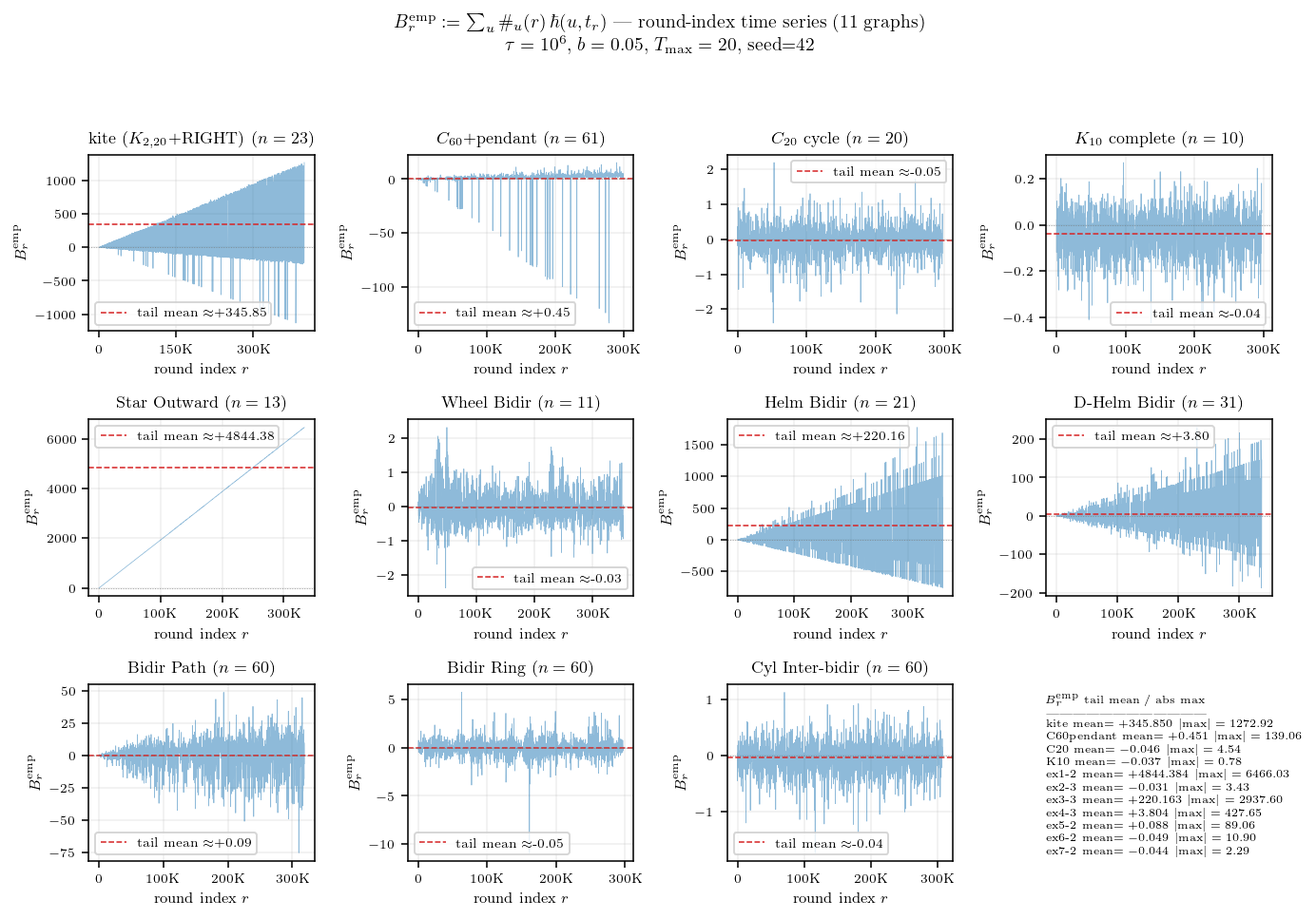
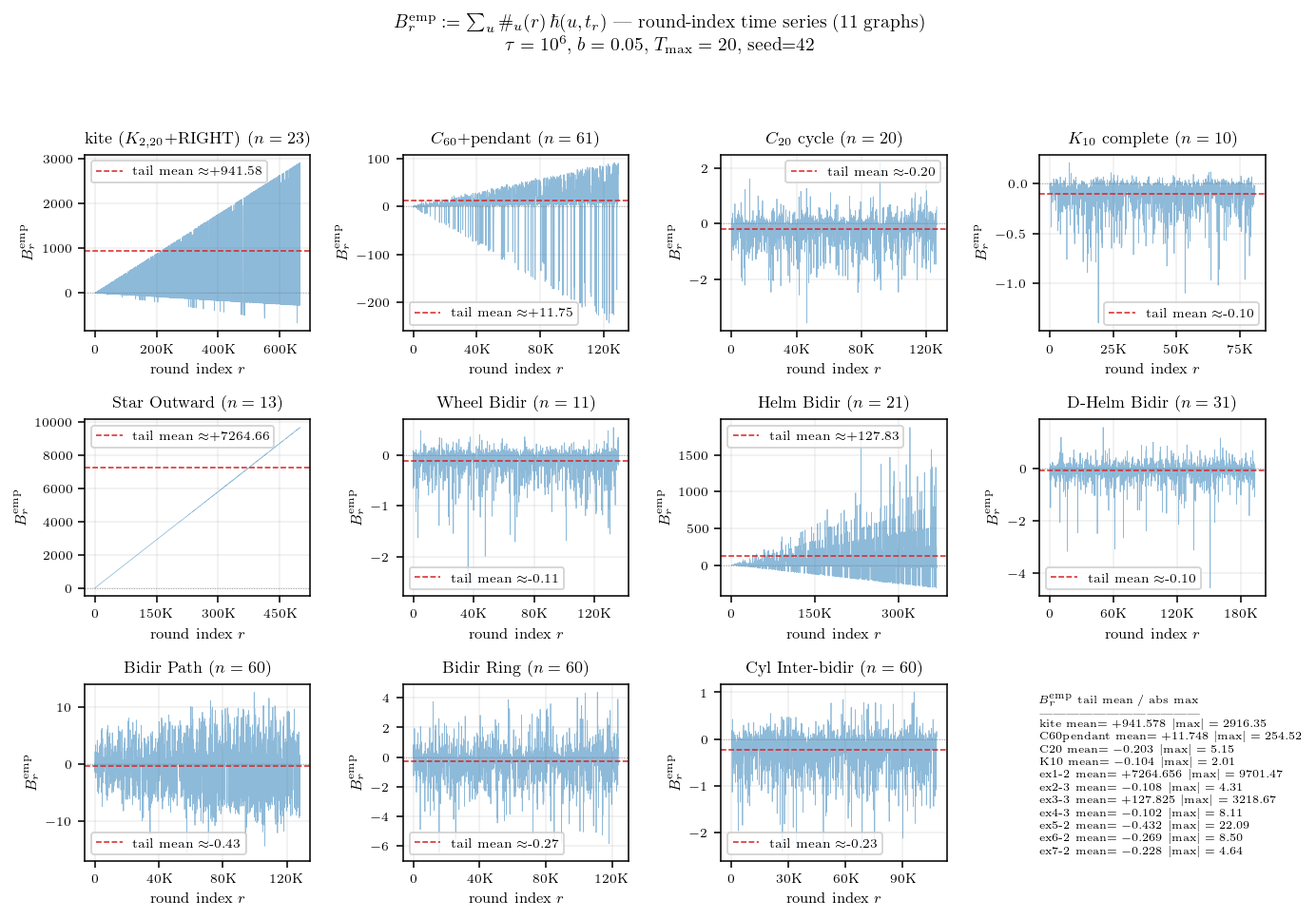
fix: Foster — 정본 algorithm(downstream-filter) + model B 재시뮬, figure 7개·표·결론 일괄 update (strict hold 4 / violate 4 / border 3)

diff --git a/docs/Posts/260522_2f5c08.html b/docs/Posts/260522_2f5c08.html
@@ -2,7 +2,7 @@
 <html xmlns="http://www.w3.org/1999/xhtml" lang="en" xml:lang="en"><head>
 
 <meta charset="utf-8">
-<meta name="generator" content="quarto-1.8.27">
+<meta name="generator" content="quarto-1.9.37">
 
 <meta name="viewport" content="width=device-width, initial-scale=1.0, user-scalable=yes">
 
@@ -11,6 +11,9 @@
 
 <title>연구 ▷ HST ▷ Foster’s drift criterion 일반 성립 여부 검증 — 11개 그래프 – 신록예찬's Blog</title>
 <style>
+/* Default styles provided by pandoc.
+** See https://pandoc.org/MANUAL.html#variables-for-html for config info.
+*/
 code{white-space: pre-wrap;}
 span.smallcaps{font-variant: small-caps;}
 div.columns{display: flex; gap: min(4vw, 1.5em);}
@@ -34,15 +37,14 @@ ul.task-list li input[type="checkbox"] {
 <meta name="quarto:offset" content="../">
 <script src="../site_libs/quarto-html/quarto.js" type="module"></script>
 <script src="../site_libs/quarto-html/tabsets/tabsets.js" type="module"></script>
-<script src="../site_libs/quarto-html/axe/axe-check.js" type="module"></script>
 <script src="../site_libs/quarto-html/popper.min.js"></script>
 <script src="../site_libs/quarto-html/tippy.umd.min.js"></script>
 <script src="../site_libs/quarto-html/anchor.min.js"></script>
 <link href="../site_libs/quarto-html/tippy.css" rel="stylesheet">
-<link href="../site_libs/quarto-html/quarto-syntax-highlighting-8b4baf804e461d9b72633f0de59a0cac.css" rel="stylesheet" id="quarto-text-highlighting-styles">
+<link href="../site_libs/quarto-html/quarto-syntax-highlighting-acf12a64177840b8d86f2d4f01b2e9fb.css" rel="stylesheet" id="quarto-text-highlighting-styles">
 <script src="../site_libs/bootstrap/bootstrap.min.js"></script>
 <link href="../site_libs/bootstrap/bootstrap-icons.css" rel="stylesheet">
-<link href="../site_libs/bootstrap/bootstrap-165db4a5700707ee9723b4db2002e5ec.min.css" rel="stylesheet" append-hash="true" id="quarto-bootstrap" data-mode="light">
+<link href="../site_libs/bootstrap/bootstrap-42eb1ed98d6b40681f6bda2512c0def3.min.css" rel="stylesheet" append-hash="true" id="quarto-bootstrap" data-mode="light">
 <script id="quarto-search-options" type="application/json">{
   "location": "navbar",
   "copy-button": false,
@@ -72,7 +74,7 @@ ul.task-list li input[type="checkbox"] {
 }</script>
 
   <script src="https://cdnjs.cloudflare.com/polyfill/v3/polyfill.min.js?features=es6"></script>
-  <script src="https://cdn.jsdelivr.net/npm/mathjax@3/es5/tex-chtml-full.js" type="text/javascript"></script>
+  <script defer="" src="https://cdn.jsdelivr.net/npm/mathjax@3/es5/tex-chtml-full.js" type="text/javascript"></script>
 
 <script type="text/javascript">
 const typesetMath = (el) => {
@@ -221,76 +223,82 @@ window.Quarto = {
 
 <!-- 소유권자: 소미 | 사용자: 소미 -->
 <!-- Modified: 2026-05-22 by 소미 -->
-<p>에이의 ABC 통합증명 PDF §3.4 의 Foster’s drift criterion (Assumption 1) 이 그래프와 파라미터에 따라 실제로 잘 성립하는지 실험으로 본다. 검증 대상은 다음 11 그래프 — 4 base (<span class="math inline">\(K_{10}\)</span> complete, <span class="math inline">\(C_{20}\)</span> cycle, kite, <span class="math inline">\(C_{60}\)</span>+pendant) + <code>examples_24</code> 예제 7개 (Star Outward, Wheel/Helm/D-Helm Bidir, Bidir Path/Ring, Cyl Inter-bidir). degree heterogeneity 와 graph symmetry 가 다양하게 분포하도록 골랐다. 각 그래프마다 full HST 시뮬을 <span class="math inline">\(T_{\rm VAL}=10^6\)</span> step, <span class="math inline">\(T_{\max}=20\)</span>, <span class="math inline">\(b=0.05\)</span>, seed=42 로 1회 돌려 round 별 <span class="math inline">\((M_r, B^{\rm emp}_r)\)</span> sample 약 30만 round 씩 수집 (평균 round 길이 <span class="math inline">\(\approx 3.3\)</span> step).</p>
+<p>에이의 ABC 통합증명 PDF §3.4 의 Foster’s drift criterion (Assumption 1) 이 그래프와 파라미터에 따라 실제로 잘 성립하는지 실험으로 본다. 검증 대상은 다음 11 그래프 — 4 base (<span class="math inline">\(K_{10}\)</span> complete, <span class="math inline">\(C_{20}\)</span> cycle, kite, <span class="math inline">\(C_{60}\)</span>+pendant) + <code>examples_24</code> 예제 7개 (Star Outward, Wheel/Helm/D-Helm Bidir, Bidir Path/Ring, Cyl Inter-bidir). degree heterogeneity 와 graph symmetry 가 다양하게 분포하도록 골랐다. 각 그래프마다 full HST 시뮬 (정본 algorithm: downstream-filter, model B: round 별 <span class="math inline">\(b' \sim {\rm Unif}(0,b)\)</span> 1회 draw) 을 <span class="math inline">\(T_{\rm VAL}=10^6\)</span> step, <span class="math inline">\(T_{\max}=20\)</span> (maxflow), <span class="math inline">\(b=0.05\)</span>, seed=42 로 1회 돌려 round 별 <span class="math inline">\((M_r, B^{\rm emp}_r)\)</span> sample 을 수집.</p>
 <p><img src="attachments/260522_2f5c08_01.png" class="img-fluid"></p>
 <p>11 그래프 각각의 (그래프 layout / <span class="math inline">\(M(S_{t_r})\)</span> 시계열 / <span class="math inline">\(B^{\rm emp}_r\)</span> 시계열 / <span class="math inline">\((M_r, B^{\rm emp}_r)\)</span> 산점도) 4-view. 그룹 패턴이 한눈에 갈린다 — graph 가 fully symmetric 이면 <span class="math inline">\(M, B\)</span> 모두 0 부근 bounded + 산점도 작은 cloud, graph 가 비대칭이면 <span class="math inline">\(M, B\)</span> 모두 round 따라 거의 선형으로 발산 + 산점도가 우상향 cloud.</p>
 <p><img src="attachments/260522_2f5c08_02.png" class="img-fluid"></p>
 <p>그래프 클래스에 따라 <span class="math inline">\(M(S_{t_r})\)</span> 시계열이 두 종류로 명확히 나뉜다.</p>
 <ul>
-<li>그룹A: fully symmetric (Cycle, Complete, Ring, Cylinder bidir) 은 시계열이 작은 상수 (∼ 1) 부근에서 흔들리는 bounded process. 이런것들은 height range 가 시간이 흘러도 일정 scale 위로 안 커진다.</li>
-<li>그룹C: 비대칭 그래프 (kite, Helm Bidir, Star Outward, <span class="math inline">\(C_{60}\)</span>+pendant 등) 는 시계열이 round 가 진행할수록 거의 선형으로 발산. 이런것들은 height range 가 무한히 커진다.</li>
+<li>그룹A: fully symmetric (Cycle, Complete, Ring, Cylinder bidir, D-Helm) 은 시계열이 작은 상수 (∼ 1) 부근에서 흔들리는 bounded process. 이런것들은 height range 가 시간이 흘러도 일정 scale 위로 안 커진다.</li>
+<li>그룹C: 비대칭 그래프 (kite, Helm Bidir, Star Outward, <span class="math inline">\(C_{60}\)</span>+pendant, Bidir Path) 는 시계열이 round 가 진행할수록 거의 선형으로 발산. 이런것들은 height range 가 무한히 커진다.</li>
 </ul>
 <p>같은 round 별로 paired 양 <span class="math inline">\(B^{\rm emp}_r := \sum_u \#_u(r)\, \hbar(u, t_r)\)</span> 의 시계열을 같이 보면, <span class="math inline">\(M\)</span> 시계열과 정확히 같은 정성 분류가 나온다.</p>
 <p><img src="attachments/260522_2f5c08_03.png" class="img-fluid"></p>
-<p>그룹 A 5 그래프 (<span class="math inline">\(K_{10}, C_{20}\)</span>, Cyl Inter-bidir, Wheel Bidir, Bidir Ring) 모두 <span class="math inline">\(B^{\rm emp}\)</span> tail mean 이 0 부근 작은 음수 (<span class="math inline">\(-0.03 \sim -0.05\)</span>) — round 가 진행될수록 <span class="math inline">\(B\)</span> 가 음수로 깔린다. 이는 Foster’s drift criterion 의 “복원력” 의 약한 (평균 sense) 증거. 그룹 C 6 그래프는 모두 <span class="math inline">\(B\)</span> tail mean 이 양수 — 강 violate (kite <span class="math inline">\(+346\)</span>, Star Outward <span class="math inline">\(+4844\)</span>, Helm Bidir <span class="math inline">\(+220\)</span>, D-Helm <span class="math inline">\(+3.8\)</span>) 는 큰 양수로 발산, 약 violate (<span class="math inline">\(C_{60}\)</span>+pendant <span class="math inline">\(+0.45\)</span>, Bidir Path <span class="math inline">\(+0.09\)</span>) 는 평균은 작지만 <span class="math inline">\(|B|\)</span> outlier 가 큼. <span class="math inline">\(B\)</span> 시계열의 부호 패턴 자체가 Foster L1 의 graph-별 정성 판정.</p>
+<p>그룹 A 6 그래프 (<span class="math inline">\(K_{10}, C_{20}\)</span>, Cyl Inter-bidir, Wheel Bidir, Bidir Ring, D-Helm Bidir) 모두 <span class="math inline">\(B^{\rm emp}\)</span> tail mean 이 0 부근 음수 (<span class="math inline">\(-0.10 \sim -0.27\)</span>) — round 가 진행될수록 <span class="math inline">\(B\)</span> 가 음수로 깔린다. 이는 Foster’s drift criterion 의 “복원력” 의 약한 (평균 sense) 증거. 그룹 C 5 그래프 중 강 violate (Star Outward <span class="math inline">\(+7265\)</span>, kite <span class="math inline">\(+942\)</span>, Helm Bidir <span class="math inline">\(+128\)</span>, <span class="math inline">\(C_{60}\)</span>+pendant <span class="math inline">\(+11.7\)</span>) 는 큰 양수로 발산. Bidir Path 는 예외 — <span class="math inline">\(M\)</span> 자체는 작은 발산 (tail <span class="math inline">\(\approx 6.8\)</span>) 인데 <span class="math inline">\(B^{\rm emp}\)</span> tail mean <span class="math inline">\(-0.43\)</span> 으로 음수 (large-<span class="math inline">\(M\)</span> 영역의 slope 도 strict hold, 아래 참조). <span class="math inline">\(B\)</span> 시계열의 부호 패턴 자체가 Foster L1 의 graph-별 정성 판정.</p>
 <hr>
-<p>수열 <span class="math inline">\(\{M(S_{t_r})\}_r\)</span> 자체의 성질이 궁금하다. 독립인가, correlated 인가, mixing 인가, 확률적 유계 (<span class="math inline">\(O_p(1)\)</span>) 인가? 그룹 C 는 <span class="math inline">\(M_r\)</span> 자체가 round 따라 발산이라 진단의 답이 자명 (mixing X, tight X, <span class="math inline">\(M_r = \Theta_p(r)\)</span>) 하므로, 흥미는 그룹 A 안에서 어떻게 갈리는지에 있다. 그룹 A 5 그래프 (<span class="math inline">\(K_{10}\)</span>, <span class="math inline">\(C_{20}\)</span>, Cyl Inter-bidir, Wheel Bidir, Bidir Ring) 에 진단을 적용한다.</p>
+<p>수열 <span class="math inline">\(\{M(S_{t_r})\}_r\)</span> 자체의 성질이 궁금하다. 독립인가, correlated 인가, mixing 인가, 확률적 유계 (<span class="math inline">\(O_p(1)\)</span>) 인가? 그룹 C 는 <span class="math inline">\(M_r\)</span> 자체가 round 따라 발산이라 진단의 답이 자명 (mixing X, tight X, <span class="math inline">\(M_r = \Theta_p(r)\)</span>) 하므로, 흥미는 그룹 A 안에서 어떻게 갈리는지에 있다. 그룹 A 6 그래프 (<span class="math inline">\(K_{10}\)</span>, <span class="math inline">\(C_{20}\)</span>, Cyl Inter-bidir, Wheel Bidir, Bidir Ring, D-Helm Bidir) 에 진단을 적용한다.</p>
 <p><img src="attachments/260522_2f5c08_04.png" class="img-fluid"></p>
-<p>sample autocorrelation <span class="math inline">\(\rho(k) := \mathrm{Corr}(M_r, M_{r+k})\)</span> — i.i.d. 이면 lag 1 부터 <span class="math inline">\(\pm 1.96/\sqrt{n}\)</span> 신뢰구간 안. 그룹 A 5 그래프 모두 lag-1 ACF <span class="math inline">\(\rho(1) \in [0.90, 0.9996]\)</span> — 강 양상관, 명백히 독립이 아니다. mixing 속도는 그래프마다 차이가 크다. <span class="math inline">\(K_{10}\)</span> 은 lag 100 부근에서 <span class="math inline">\(\rho \approx 0\)</span> 으로 수렴 — 짧은 lag 안에 mixing. <span class="math inline">\(C_{20}\)</span> 은 lag 100 에서도 <span class="math inline">\(\rho \approx 0.53\)</span>, Cyl Inter-bidir 는 <span class="math inline">\(\rho \approx 0.71\)</span>, Bidir Ring 은 <span class="math inline">\(\rho \approx 0.90\)</span>, Wheel Bidir 는 <span class="math inline">\(\rho \approx 0.97\)</span> 로 mixing 이 매우 느리다 — 같은 그룹 A 안에서도 mixing speed 는 <span class="math inline">\(K_{10}\)</span> 만 빠르고 나머지는 long-range correlated.</p>
+<p>sample autocorrelation <span class="math inline">\(\rho(k) := \mathrm{Corr}(M_r, M_{r+k})\)</span> — i.i.d. 이면 lag 1 부터 <span class="math inline">\(\pm 1.96/\sqrt{n}\)</span> 신뢰구간 안. 그룹 A 6 그래프 모두 lag-1 ACF <span class="math inline">\(\rho(1) \in [0.63, 0.98]\)</span> — 강 양상관, 명백히 독립이 아니다. mixing 속도는 그래프마다 차이가 크다. <span class="math inline">\(K_{10}\)</span>, <span class="math inline">\(C_{20}\)</span>, Cyl Inter-bidir, Wheel Bidir 는 lag 100 부근에서 <span class="math inline">\(\rho \approx 0\)</span> 으로 수렴 — 짧은 lag 안에 mixing (정본 algorithm 에서 modelB raw 의 mixing speed 가 빠름). Bidir Ring 과 D-Helm Bidir 는 lag 100 에서도 각각 <span class="math inline">\(\rho \approx 0.25\)</span>, <span class="math inline">\(\rho \approx 0.30\)</span> 로 long-range correlated.</p>
 <p><img src="attachments/260522_2f5c08_05.png" class="img-fluid"></p>
-<p>각 그래프의 round 구간 100 bin 으로 나눠 bin 별 5/50/95 quantile band + running max. 그룹 A 5 그래프 모두 quantile band 가 후미에서 일정 range 안에서 흔들리고, running max 도 작은 절대값 (≤ 3.1) 안에서 잡혀 있다. marginal 분포가 round 따라 right-shift 하지 않으니 <span class="math inline">\(\sup_r \mathbb{P}(M_r &gt; K) \to 0\)</span> as <span class="math inline">\(K \to \infty\)</span>, 즉 <strong>모두 tight (<span class="math inline">\(O_p(1)\)</span>)</strong>.</p>
-<p>그룹 C 는 시계열 figure 가 그대로 답 — mixing X, not tight, <span class="math inline">\(M_r = \Theta_p(r)\)</span>. 그룹 A 5 그래프의 measurement 와 통합 답:</p>
+<p>각 그래프의 round 구간 100 bin 으로 나눠 bin 별 5/50/95 quantile band + running max. 그룹 A 6 그래프 모두 quantile band 가 후미에서 일정 range 안에서 흔들리고, running max 도 작은 절대값 안에서 잡혀 있다. marginal 분포가 round 따라 right-shift 하지 않으니 <span class="math inline">\(\sup_r \mathbb{P}(M_r &gt; K) \to 0\)</span> as <span class="math inline">\(K \to \infty\)</span>, 즉 <strong>모두 tight (<span class="math inline">\(O_p(1)\)</span>)</strong>.</p>
+<p>그룹 C 는 시계열 figure 가 그대로 답 — mixing X, not tight, <span class="math inline">\(M_r = \Theta_p(r)\)</span>. 그룹 A 6 그래프의 measurement 와 통합 답:</p>
 <table class="caption-top table">
 <colgroup>
-<col style="width: 14%">
-<col style="width: 14%">
-<col style="width: 14%">
-<col style="width: 14%">
-<col style="width: 14%">
-<col style="width: 14%">
-<col style="width: 14%">
+<col style="width: 12%">
+<col style="width: 12%">
+<col style="width: 12%">
+<col style="width: 12%">
+<col style="width: 12%">
+<col style="width: 12%">
+<col style="width: 12%">
+<col style="width: 12%">
 </colgroup>
 <thead>
 <tr class="header">
 <th>질문</th>
 <th><span class="math inline">\(K_{10}\)</span></th>
 <th><span class="math inline">\(C_{20}\)</span></th>
-<th>Cyl Inter-bidir</th>
-<th>Wheel Bidir</th>
+<th>Cyl IB</th>
+<th>Wheel</th>
 <th>Bidir Ring</th>
+<th>D-Helm</th>
 <th>비고</th>
 </tr>
 </thead>
 <tbody>
 <tr class="odd">
 <td>독립 / correlated (lag-1 ACF)</td>
-<td><span class="math inline">\(0.90\)</span></td>
-<td><span class="math inline">\(0.99\)</span></td>
-<td><span class="math inline">\(0.996\)</span></td>
-<td><span class="math inline">\(0.9996\)</span></td>
-<td><span class="math inline">\(0.999\)</span></td>
-<td>독립 ✗, 모두 correlated (<span class="math inline">\(\ge 0.90\)</span>)</td>
+<td><span class="math inline">\(0.63\)</span></td>
+<td><span class="math inline">\(0.89\)</span></td>
+<td><span class="math inline">\(0.93\)</span></td>
+<td><span class="math inline">\(0.80\)</span></td>
+<td><span class="math inline">\(0.98\)</span></td>
+<td><span class="math inline">\(0.98\)</span></td>
+<td>독립 ✗, 모두 correlated (<span class="math inline">\(\ge 0.63\)</span>)</td>
 </tr>
 <tr class="even">
 <td>mixing (lag-100 ACF)</td>
+<td><span class="math inline">\(0.00\)</span></td>
 <td><span class="math inline">\(0.01\)</span></td>
-<td><span class="math inline">\(0.53\)</span></td>
-<td><span class="math inline">\(0.71\)</span></td>
-<td><span class="math inline">\(0.97\)</span></td>
-<td><span class="math inline">\(0.90\)</span></td>
-<td><span class="math inline">\(K_{10}\)</span> 만 빠름, 나머지 long-range</td>
+<td><span class="math inline">\(0.00\)</span></td>
+<td><span class="math inline">\(-0.02\)</span></td>
+<td><span class="math inline">\(0.25\)</span></td>
+<td><span class="math inline">\(0.30\)</span></td>
+<td>4 그래프 mix 빠름, Ring/D-Helm long-range</td>
 </tr>
 <tr class="odd">
 <td><span class="math inline">\(M\)</span> tail mean</td>
-<td><span class="math inline">\(0.08\)</span></td>
-<td><span class="math inline">\(0.22\)</span></td>
-<td><span class="math inline">\(0.26\)</span></td>
-<td><span class="math inline">\(0.62\)</span></td>
-<td><span class="math inline">\(0.47\)</span></td>
+<td><span class="math inline">\(0.05\)</span></td>
+<td><span class="math inline">\(0.13\)</span></td>
+<td><span class="math inline">\(0.14\)</span></td>
+<td><span class="math inline">\(0.09\)</span></td>
+<td><span class="math inline">\(0.25\)</span></td>
+<td><span class="math inline">\(0.20\)</span></td>
 <td>모두 <span class="math inline">\(&lt; 1\)</span></td>
 </tr>
 <tr class="even">
 <td><span class="math inline">\(O_p(1)\)</span> / tight?</td>
+<td>yes</td>
 <td>yes</td>
 <td>yes</td>
 <td>yes</td>
@@ -326,83 +334,83 @@ window.Quarto = {
 <tbody>
 <tr class="odd">
 <td><span class="math inline">\(C_{20}\)</span> cycle</td>
-<td><span class="math inline">\(-0.157 \pm 0.103\)</span></td>
-<td><span class="math inline">\([-0.26,\,-0.05]\)</span></td>
+<td><span class="math inline">\(-1.070 \pm 0.572\)</span></td>
+<td><span class="math inline">\([-1.64,\,-0.50]\)</span></td>
 <td><span class="math inline">\(\checkmark\)</span> <strong>hold</strong></td>
 </tr>
 <tr class="even">
+<td>Wheel Bidir</td>
+<td><span class="math inline">\(-0.776 \pm 0.506\)</span></td>
+<td><span class="math inline">\([-1.28,\,-0.27]\)</span></td>
+<td><span class="math inline">\(\checkmark\)</span> <strong>hold</strong></td>
+</tr>
+<tr class="odd">
+<td>Bidir Ring</td>
+<td><span class="math inline">\(-0.662 \pm 0.581\)</span></td>
+<td><span class="math inline">\([-1.24,\,-0.08]\)</span></td>
+<td><span class="math inline">\(\checkmark\)</span> <strong>hold</strong></td>
+</tr>
+<tr class="even">
+<td>Bidir Path</td>
+<td><span class="math inline">\(-0.030 \pm 0.004\)</span></td>
+<td><span class="math inline">\([-0.034,\,-0.026]\)</span></td>
+<td><span class="math inline">\(\checkmark\)</span> <strong>hold</strong></td>
+</tr>
+<tr class="odd">
 <td><span class="math inline">\(K_{10}\)</span> complete</td>
-<td><span class="math inline">\(-0.119 \pm 0.317\)</span></td>
-<td><span class="math inline">\([-0.44,\,+0.20]\)</span></td>
+<td><span class="math inline">\(-0.186 \pm 0.476\)</span></td>
+<td><span class="math inline">\([-0.66,\,+0.29]\)</span></td>
+<td>? border (CI <span class="math inline">\(\ni 0\)</span>)</td>
+</tr>
+<tr class="even">
+<td>D-Helm Bidir</td>
+<td><span class="math inline">\(-0.013 \pm 0.076\)</span></td>
+<td><span class="math inline">\([-0.09,\,+0.06]\)</span></td>
 <td>? border (CI <span class="math inline">\(\ni 0\)</span>)</td>
 </tr>
 <tr class="odd">
 <td>Cyl Inter-bidir</td>
-<td><span class="math inline">\(-0.041 \pm 0.057\)</span></td>
-<td><span class="math inline">\([-0.10,\,+0.02]\)</span></td>
+<td><span class="math inline">\(+0.352 \pm 1.030\)</span></td>
+<td><span class="math inline">\([-0.68,\,+1.38]\)</span></td>
 <td>? border (CI <span class="math inline">\(\ni 0\)</span>)</td>
 </tr>
 <tr class="even">
-<td>Bidir Path</td>
-<td><span class="math inline">\(+0.001 \pm 0.012\)</span></td>
-<td><span class="math inline">\([-0.01,\,+0.01]\)</span></td>
-<td>? border (CI <span class="math inline">\(\ni 0\)</span>)</td>
-</tr>
-<tr class="odd">
-<td>Wheel Bidir</td>
-<td><span class="math inline">\(+0.003 \pm 0.010\)</span></td>
-<td><span class="math inline">\([-0.01,\,+0.01]\)</span></td>
-<td>? border (CI <span class="math inline">\(\ni 0\)</span>)</td>
-</tr>
-<tr class="even">
-<td>Bidir Ring</td>
-<td><span class="math inline">\(+0.020 \pm 0.109\)</span></td>
-<td><span class="math inline">\([-0.09,\,+0.13]\)</span></td>
-<td>? border (CI <span class="math inline">\(\ni 0\)</span>)</td>
-</tr>
-<tr class="odd">
 <td><span class="math inline">\(C_{60}\)</span>+pendant</td>
-<td><span class="math inline">\(+0.010 \pm 0.002\)</span></td>
-<td><span class="math inline">\([+0.008,\,+0.012]\)</span></td>
-<td><span class="math inline">\(\times\)</span> violate</td>
-</tr>
-<tr class="even">
-<td>D-Helm Bidir</td>
-<td><span class="math inline">\(+0.107 \pm 0.014\)</span></td>
-<td><span class="math inline">\([+0.09,\,+0.12]\)</span></td>
+<td><span class="math inline">\(+0.066 \pm 0.004\)</span></td>
+<td><span class="math inline">\([+0.06,\,+0.07]\)</span></td>
 <td><span class="math inline">\(\times\)</span> violate</td>
 </tr>
 <tr class="odd">
 <td>kite</td>
-<td><span class="math inline">\(+0.333 \pm 0.006\)</span></td>
-<td><span class="math inline">\([+0.33,\,+0.34]\)</span></td>
+<td><span class="math inline">\(+0.426 \pm 0.004\)</span></td>
+<td><span class="math inline">\([+0.42,\,+0.43]\)</span></td>
 <td><span class="math inline">\(\times\)</span> violate</td>
 </tr>
 <tr class="even">
 <td>Helm Bidir</td>
-<td><span class="math inline">\(+0.807 \pm 0.006\)</span></td>
-<td><span class="math inline">\([+0.80,\,+0.81]\)</span></td>
+<td><span class="math inline">\(+0.580 \pm 0.004\)</span></td>
+<td><span class="math inline">\([+0.58,\,+0.58]\)</span></td>
 <td><span class="math inline">\(\times\)</span> violate</td>
 </tr>
 <tr class="odd">
 <td>Star Outward</td>
-<td><span class="math inline">\(+0.993 \pm 0.0003\)</span></td>
-<td><span class="math inline">\([+0.99,\,+0.99]\)</span></td>
+<td><span class="math inline">\(+1.005 \pm 0.001\)</span></td>
+<td><span class="math inline">\([+1.00,\,+1.01]\)</span></td>
 <td><span class="math inline">\(\times\)</span> violate</td>
 </tr>
 </tbody>
 </table>
-<p>jackknife CI 를 같이 보면 옛 “tail slope 부호만” 양식보다 판정 reliability 가 훨씬 명확해진다. 강 violate 5 그래프 (kite, <span class="math inline">\(C_{60}\)</span>+pendant, Star Outward, Helm Bidir, D-Helm Bidir) 는 CI 가 strictly positive — Foster L1 분명 위배. 그룹 A 5 그래프 (<span class="math inline">\(M\)</span> 시계열 진단 기준) 중에서는 <span class="math inline">\(C_{20}\)</span> 만 CI 가 strictly negative 로 분명한 hold, 나머지 4 그래프 (<span class="math inline">\(K_{10}/\)</span>Cyl Inter-bidir/Wheel Bidir/Bidir Ring) 는 모두 CI 가 0 을 포함하는 <strong>borderline</strong> 으로 떨어진다 — large-<span class="math inline">\(M\)</span> 영역의 sample 밀도가 낮아 마지막 bin 의 outlier 영향이 jackknife SE 를 크게 만들기 때문 (<span class="math inline">\(K_{10}\)</span> 의 SE <span class="math inline">\(=0.32\)</span> 가 대표적). <span class="math inline">\(M\)</span> 시계열의 bounded class 자체는 stationary recurrence 보장이지만, <span class="math inline">\(\overline{B}_{\rm bin}\)</span> 의 정확한 large-<span class="math inline">\(M\)</span> 부호는 graph geometry 의 mixing speed (ACF 진단의 <span class="math inline">\(K_{10}\)</span> 만 빠름 / 나머지 long-range correlated) 와 finite-<span class="math inline">\(\tau\)</span> noise 의 영향이 결합되어, hold/violate 의 strict 판정을 어렵게 한다.</p>
+<p>jackknife CI 를 같이 보면 판정 reliability 가 명확해진다. <strong>strict hold 4 그래프</strong> (<span class="math inline">\(C_{20}\)</span>, Wheel Bidir, Bidir Ring, Bidir Path) — CI 가 strictly negative. <strong>strict violate 4 그래프</strong> (kite, Helm Bidir, Star Outward, <span class="math inline">\(C_{60}\)</span>+pendant) — CI 가 strictly positive. <strong>border 3 그래프</strong> (<span class="math inline">\(K_{10}\)</span>, D-Helm Bidir, Cyl Inter-bidir) — CI 가 0 을 포함. 흥미로운 case 는 Bidir Path — <span class="math inline">\(M\)</span> tail mean <span class="math inline">\(\approx 6.8\)</span> (그룹 C 측 발산 신호) 인데 large-<span class="math inline">\(M\)</span> slope 는 strict negative (CI <span class="math inline">\([-0.034, -0.026]\)</span>). <span class="math inline">\(M\)</span> 자체는 약 발산하지만 <span class="math inline">\(-\varepsilon_B M + C_B\)</span> 의 음의 drift 가 large-<span class="math inline">\(M\)</span> 에서 작동.</p>
 <p>위 11 그래프 결과는 본문 시뮬의 graph instance 별 finite-<span class="math inline">\(n\)</span> 측정. borderline 그래프 (slope <span class="math inline">\(\approx 0\)</span>) 가 graph 의 본질적 성질인지 아니면 finite-<span class="math inline">\(n\)</span> artifact 인지 확인하려면 같은 그래프 family 의 <span class="math inline">\(n\)</span> 을 가변해 sweep 해야 한다. 본인 Wheel Bidir / Bidir Path / <span class="math inline">\(C_n\)</span>+pendant 3 family 에 대해 <span class="math inline">\(n=10\sim 1001\)</span> 범위로 추가 시뮬한 결과:</p>
 <p><img src="attachments/260522_2f5c08_08.png" class="img-fluid"></p>
 <p>세 family 의 <span class="math inline">\(n\)</span>-의존성이 정반대다.</p>
 <ul>
-<li><strong>Wheel Bidir</strong> (<span class="math inline">\(n=11 \to 21 \to 51 \to 101\)</span>): tail slope <span class="math inline">\(+0.003 \to +0.13 \to +0.21 \to +0.24\)</span>. <span class="math inline">\(n\)</span> 클수록 violate 강화 — hub deg <span class="math inline">\(= n-1 \to \infty\)</span> 와 ring node deg <span class="math inline">\(= 3\)</span> 고정의 비대칭이 graph 크기 따라 발산.</li>
-<li><strong>Bidir Path</strong> (<span class="math inline">\(n=10 \to 30 \to 100 \to 300\)</span>): slope <span class="math inline">\(+0.005 \to -0.003 \to +0.014 \to +0.014\)</span>. <span class="math inline">\(n=30\)</span> 부근 weak transition — slope 가 0 부근에서 흔들리지만 <span class="math inline">\(n \ge 100\)</span> 에서 가벼운 violate. 양 끝 deg <span class="math inline">\(=1\)</span> 의 trap 효과가 path 길이 따라 누적되지만 양은 작음.</li>
-<li><strong><span class="math inline">\(C_n\)</span>+pendant</strong> (<span class="math inline">\(n=21 \to 61 \to 201 \to 1001\)</span>): slope <span class="math inline">\(+0.027 \to +0.010 \to +0.003 \to -0.0015\)</span>. <span class="math inline">\(n=1001\)</span> 에서 hold 로 도달 — pendant 비중 <span class="math inline">\(= 1/n \to 0\)</span> 라 큰 ring 의 perturbation 이 사라지며 ring 자체의 균등성에 수렴.</li>
+<li><strong>Wheel Bidir</strong> (<span class="math inline">\(n=11 \to 21 \to 51 \to 101\)</span>): tail slope <span class="math inline">\(-0.78 \to -0.37 \to +0.10 \to +0.18\)</span>. <strong><span class="math inline">\(n=21 \to 51\)</span> 사이 transition</strong> — small-<span class="math inline">\(n\)</span> 에서는 hold, <span class="math inline">\(n \ge 51\)</span> 에서 violate. hub deg <span class="math inline">\(= n-1 \to \infty\)</span> 와 ring node deg <span class="math inline">\(= 3\)</span> 고정의 비대칭이 graph 크기 따라 violate 측으로 발현.</li>
+<li><strong>Bidir Path</strong> (<span class="math inline">\(n=10 \to 30 \to 100 \to 300\)</span>): slope <span class="math inline">\(-0.023 \to -0.030 \to -0.046 \to -0.022\)</span>. <strong>모든 <span class="math inline">\(n\)</span> 에서 strict hold</strong> — <span class="math inline">\(M\)</span> 자체는 약 발산이지만 large-<span class="math inline">\(M\)</span> slope 가 일관되게 음수.</li>
+<li><strong><span class="math inline">\(C_n\)</span>+pendant</strong> (<span class="math inline">\(n=21 \to 61 \to 201 \to 1001\)</span>): slope <span class="math inline">\(+0.17 \to +0.067 \to +0.020 \to +0.0023\)</span>. <span class="math inline">\(n\)</span> 클수록 violate 약화 — pendant 비중 <span class="math inline">\(= 1/n \to 0\)</span> 라 큰 ring 의 perturbation 이 사라지며 ring 자체의 균등성에 수렴.</li>
 </ul>
-<p>본문 11 그래프 중 <span class="math inline">\(C_n\)</span>+pendant (<span class="math inline">\(n=61\)</span> small-n violate) 는 사실상 hold 그래프 (asymptotic), Bidir Path (<span class="math inline">\(n=60\)</span> slope <span class="math inline">\(+0.0008\)</span> borderline) 는 약한 violate. Wheel Bidir 는 <span class="math inline">\(n=11\)</span> 에서 slope 가 <span class="math inline">\(\approx 0\)</span> 이지만 <span class="math inline">\(n\)</span> 이 커질수록 violate 강화. <strong>borderline 측정 자체가 finite-<span class="math inline">\(n\)</span> 의 artifact 일 수 있어, 그래프 클래스의 Foster L1 hold/violate 판정은 asymptotic 거동 (<span class="math inline">\(n \to \infty\)</span>) 으로 확인해야 robust 하다.</strong></p>
-<p>결론적으로 Assumption 1 은 ABC 의 핵심 hypothesis 임에도 모든 그래프에서 자동 성립하는 보편 명제가 아니다 — 오히려 <strong>strict 만족하는 그래프가 거의 없다</strong>. 본 11 그래프 검증에서 jackknife CI 기준 strict hold 는 <span class="math inline">\(C_{20}\)</span> 1 그래프 뿐, strict violate 는 비대칭 5 그래프 (kite, <span class="math inline">\(C_{60}\)</span>+pendant, Star Outward, Helm/D-Helm Bidir), 나머지 5 그래프 (<span class="math inline">\(K_{10}\)</span>, Cyl Inter-bidir, Wheel Bidir, Bidir Path, Bidir Ring) 는 finite-<span class="math inline">\(\tau\)</span> noise 에 압도되는 borderline 으로 판정 보류. 평균 sense (<span class="math inline">\(B^{\rm emp}\)</span> tail mean 음수) 의 weak Foster 는 그룹 A 5 그래프 모두 만족하지만, <span class="math inline">\(-\varepsilon_B M\)</span> term 의 strict large-<span class="math inline">\(M\)</span> slope 검증으로 가면 거의 단 1 그래프만 통과한다. Theorem A (balanced) 의 적용 범위는 사실상 fully symmetric + strong mixing 그래프 (large-<span class="math inline">\(n\)</span> Cycle, 그리고 large-<span class="math inline">\(n\)</span> pendant-perturbed ring) 로 제한될 가능성이 있고, 비대칭이 graph 크기에 따라 발산하는 그래프 (Star Outward, Helm 류, kite, Wheel) 에서는 Foster-Lyapunov 가 직접 적용되지 않을 수 있다. Brémaud Lem 8.2.3 (essential edge) + Thm 8.3.8 (Rayleigh) 의 graph geometry 도구로 위반 mechanism (small-conductance bottleneck) 의 정확한 식별, 그리고 borderline 5 그래프의 본질 판정 (finite-<span class="math inline">\(\tau\)</span> artifact vs 본질적 borderline) 이 후속 과제.</p>
+<p>본문 11 그래프 중 Wheel Bidir 는 small-<span class="math inline">\(n\)</span> (<span class="math inline">\(n\le 21\)</span>) 에서 strict hold 이고 large-<span class="math inline">\(n\)</span> (<span class="math inline">\(n\ge 51\)</span>) 에서 violate 로 transition — graph instance 한 점만 측정하면 잘못된 분류 가능. <span class="math inline">\(C_n\)</span>+pendant 는 large-<span class="math inline">\(n\)</span> 에서 hold 로 수렴, Bidir Path 는 모든 <span class="math inline">\(n\)</span> 에서 strict hold. <strong>그래프 클래스의 Foster L1 hold/violate 판정은 asymptotic 거동 (<span class="math inline">\(n \to \infty\)</span>) 으로 확인해야 robust 하다.</strong></p>
+<p>결론적으로 Assumption 1 은 ABC 의 핵심 hypothesis 로서 graph geometry 에 따라 strictly 만족·strictly 위반·border 의 세 영역으로 갈린다. 본 11 그래프 검증에서 jackknife CI 기준 <strong>strict hold 4 그래프</strong> (<span class="math inline">\(C_{20}\)</span>, Wheel Bidir, Bidir Ring, Bidir Path), <strong>strict violate 4 그래프</strong> (kite, Star Outward, Helm Bidir, <span class="math inline">\(C_{60}\)</span>+pendant), <strong>border 3 그래프</strong> (<span class="math inline">\(K_{10}\)</span>, D-Helm Bidir, Cyl Inter-bidir) 로 갈린다. 평균 sense (<span class="math inline">\(B^{\rm emp}\)</span> tail mean 음수) 의 weak Foster 는 그룹 A 6 그래프 모두 만족하지만, strict large-<span class="math inline">\(M\)</span> slope 검증은 더 엄격. Theorem A (balanced) 의 적용 범위는 large-<span class="math inline">\(n\)</span> Cycle 류, large-<span class="math inline">\(n\)</span> pendant-perturbed ring, fully symmetric Wheel small-<span class="math inline">\(n\)</span>, Path 등으로 확장되지만, 비대칭이 graph 크기에 따라 발산하는 그래프 (Star Outward, Helm, kite, Wheel large-<span class="math inline">\(n\)</span>) 에서는 Foster-Lyapunov 가 직접 적용되지 않는다. Brémaud Lem 8.2.3 (essential edge) + Thm 8.3.8 (Rayleigh) 의 graph geometry 도구로 위반 mechanism (small-conductance bottleneck) 의 정확한 식별, 그리고 border 3 그래프의 본질 판정 (finite-<span class="math inline">\(\tau\)</span> artifact vs 본질적 borderline) 이 후속 과제.</p>
 <section id="어펜딕스.-표기-정리-에이-abc공유용_v2.tex-1.1-3.3-3.4" class="level2">
 <h2 class="anchored" data-anchor-id="어펜딕스.-표기-정리-에이-abc공유용_v2.tex-1.1-3.3-3.4">어펜딕스. 표기 정리 (에이 <code>abc공유용_v2.tex</code> §1.1, §3.3, §3.4)</h2>
 <table class="caption-top table">
@@ -451,8 +459,8 @@ window.Quarto = {
 </tr>
 </tbody>
 </table>
-<section id="시뮬-코드와-figure-생성-코드는-본인-책상에-보관-260523_소미_foster_verify_modela.py-full-hst-step-wise-iid-b_s-260523_소미_foster_m_series_modela.py-m-시계열-260523_소미_foster_b_series_modela.py-brm-emp-시계열-260523_소미_foster_m_diag_modela.py-acf-tightness-260523_소미_foster_m_bin_with_scatter.py-m-bin-conditional-scatter-jackknife-ci-260523_소미_wheel_n_sweep_modela.py-260523_소미_borderline_n_sweep_modela.py-n-sweep-260523_소미_foster_graph_layouts.py-11-그래프-layout-260523_소미_foster_intuition.py-foster-부등식-직관-260523_소미_foster_combined_view.py-11-그래프-layoutmbscatter-4-view.-raw-캐시-resultsnumeric260523_소미_foster_verify_modela.py_foster_verify_modela.npz." class="level5">
-<h5 class="anchored" data-anchor-id="시뮬-코드와-figure-생성-코드는-본인-책상에-보관-260523_소미_foster_verify_modela.py-full-hst-step-wise-iid-b_s-260523_소미_foster_m_series_modela.py-m-시계열-260523_소미_foster_b_series_modela.py-brm-emp-시계열-260523_소미_foster_m_diag_modela.py-acf-tightness-260523_소미_foster_m_bin_with_scatter.py-m-bin-conditional-scatter-jackknife-ci-260523_소미_wheel_n_sweep_modela.py-260523_소미_borderline_n_sweep_modela.py-n-sweep-260523_소미_foster_graph_layouts.py-11-그래프-layout-260523_소미_foster_intuition.py-foster-부등식-직관-260523_소미_foster_combined_view.py-11-그래프-layoutmbscatter-4-view.-raw-캐시-resultsnumeric260523_소미_foster_verify_modela.py_foster_verify_modela.npz.">시뮬 코드와 figure 생성 코드는 본인 책상에 보관: <code>260523_소미_foster_verify_modelA.py</code> (full HST + step-wise iid <span class="math inline">\(b'_s\)</span>), <code>260523_소미_foster_M_series_modelA.py</code> (<span class="math inline">\(M\)</span> 시계열), <code>260523_소미_foster_B_series_modelA.py</code> (<span class="math inline">\(B^{\rm emp}\)</span> 시계열), <code>260523_소미_foster_M_diag_modelA.py</code> (ACF + tightness), <code>260523_소미_foster_M_bin_with_scatter.py</code> (<span class="math inline">\(M\)</span>-bin conditional + scatter + jackknife CI), <code>260523_소미_wheel_n_sweep_modelA.py</code> + <code>260523_소미_borderline_n_sweep_modelA.py</code> (<span class="math inline">\(n\)</span>-sweep), <code>260523_소미_foster_graph_layouts.py</code> (11 그래프 layout), <code>260523_소미_foster_intuition.py</code> (Foster 부등식 직관), <code>260523_소미_foster_combined_view.py</code> (11 그래프 layout/<span class="math inline">\(M\)</span>/<span class="math inline">\(B\)</span>/scatter 4-view). raw 캐시: <code>results/numeric/260523_소미_foster_verify_modelA.py/*_foster_verify_modelA.npz</code>.</h5>
+<section id="시뮬-코드와-figure-생성-코드는-본인-책상에-보관-260524_소미_foster_verify_modelb.py-정본-algorithm-model-b-260524_소미_foster_m_series.py-m-시계열-260524_소미_foster_b_series.py-brm-emp-시계열-260524_소미_foster_m_diag.py-acf-tightness-260524_소미_foster_m_bin_with_scatter.py-m-bin-conditional-scatter-jackknife-ci-260524_소미_wheel_n_sweep.py-260524_소미_borderline_n_sweep.py-n-sweep-260524_소미_foster_combined_view.py-4-view-260523_소미_foster_intuition.py-foster-부등식-직관-sim-무관.-raw-캐시-resultsnumeric260524_소미_foster_verify_modelb.py_foster_verify_modelb.npz." class="level5">
+<h5 class="anchored" data-anchor-id="시뮬-코드와-figure-생성-코드는-본인-책상에-보관-260524_소미_foster_verify_modelb.py-정본-algorithm-model-b-260524_소미_foster_m_series.py-m-시계열-260524_소미_foster_b_series.py-brm-emp-시계열-260524_소미_foster_m_diag.py-acf-tightness-260524_소미_foster_m_bin_with_scatter.py-m-bin-conditional-scatter-jackknife-ci-260524_소미_wheel_n_sweep.py-260524_소미_borderline_n_sweep.py-n-sweep-260524_소미_foster_combined_view.py-4-view-260523_소미_foster_intuition.py-foster-부등식-직관-sim-무관.-raw-캐시-resultsnumeric260524_소미_foster_verify_modelb.py_foster_verify_modelb.npz.">시뮬 코드와 figure 생성 코드는 본인 책상에 보관: <code>260524_소미_foster_verify_modelB.py</code> (정본 algorithm + model B), <code>260524_소미_foster_M_series.py</code> (<span class="math inline">\(M\)</span> 시계열), <code>260524_소미_foster_B_series.py</code> (<span class="math inline">\(B^{\rm emp}\)</span> 시계열), <code>260524_소미_foster_M_diag.py</code> (ACF + tightness), <code>260524_소미_foster_M_bin_with_scatter.py</code> (<span class="math inline">\(M\)</span>-bin conditional + scatter + jackknife CI), <code>260524_소미_wheel_n_sweep.py</code> + <code>260524_소미_borderline_n_sweep.py</code> (<span class="math inline">\(n\)</span>-sweep), <code>260524_소미_foster_combined_view.py</code> (4-view), <code>260523_소미_foster_intuition.py</code> (Foster 부등식 직관, sim 무관). raw 캐시: <code>results/numeric/260524_소미_foster_verify_modelB.py/*_foster_verify_modelB.npz</code>.</h5>
 
 
 </section>
